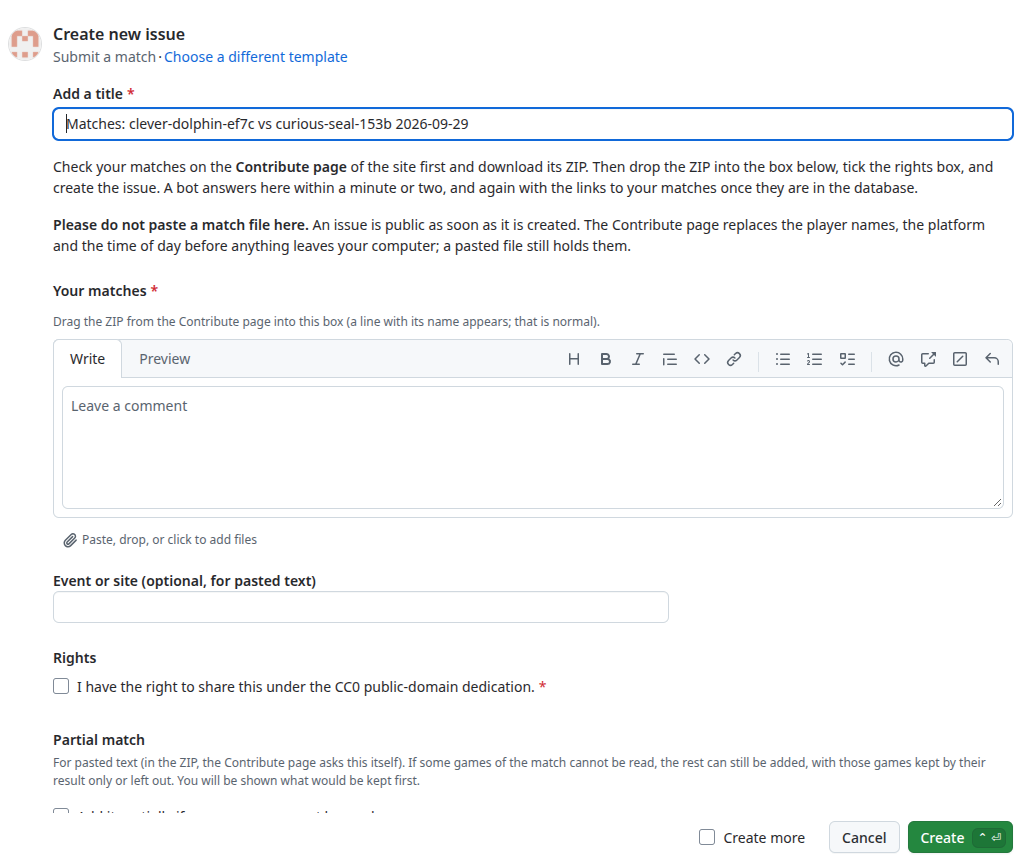
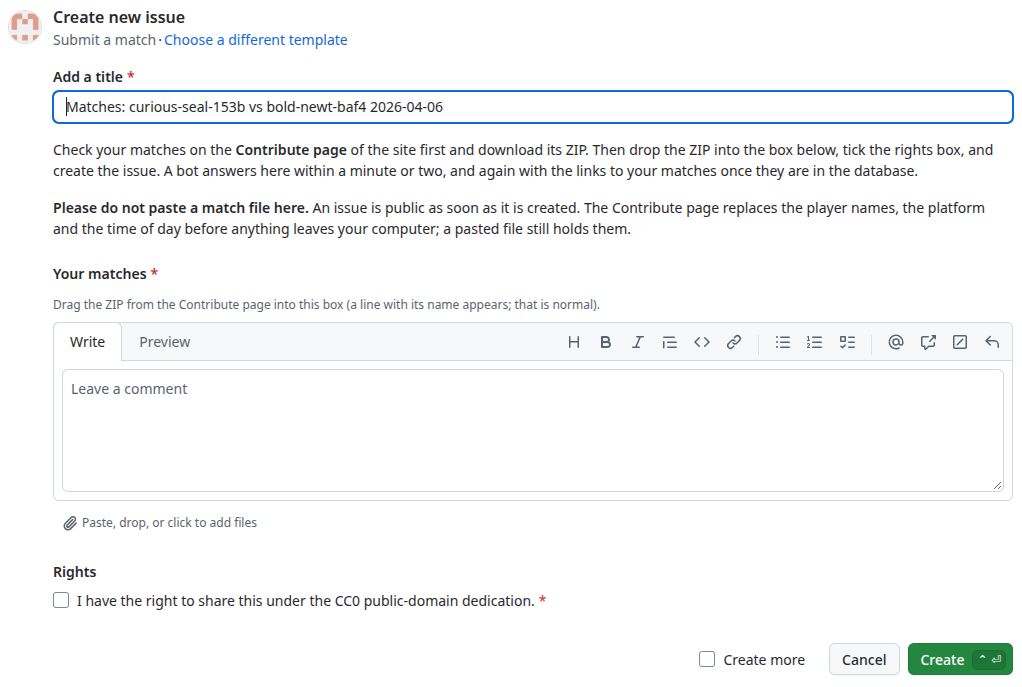
Guide: the pictures of the shorter Submit a match form (form, send)

diff --git a/site/js/steps.js b/site/js/steps.js
@@ -13,11 +13,11 @@ import { el, toDom } from './svg.js';
  */
 export const SHOTS = {
   form: {
-    src: 'img/guide/form.png', w: 1022, h: 861,
+    src: 'img/guide/form.png', w: 1022, h: 687,
     alt: 'The "Submit a match" form on GitHub, empty: a title field that says "Matches", a short explanation, the box "Your matches", the rights box and the green Create button.',
     marks: [
-      { box: [52, 108, 961, 32], text: 'The title is filled in for you.' },
-      { box: [53, 340, 960, 178], get text() { return `Your ZIP goes into this box (step ${stepNo('send')}).`; } },
+      { box: [53, 91, 960, 32], text: 'The title is filled in for you.' },
+      { box: [54, 323, 959, 178], get text() { return `Your ZIP goes into this box (step ${stepNo('send')}).`; } },
     ],
   },
   dropped: {
@@ -26,11 +26,11 @@ export const SHOTS = {
     marks: [{ box: [25, 117, 652, 22], text: 'This line means that the ZIP is uploaded. It looks odd, but it is right: leave it as it is.' }],
   },
   send: {
-    src: 'img/guide/send.png', w: 975, h: 250,
+    src: 'img/guide/send.png', w: 975, h: 125,
     alt: 'The bottom of the form: the rights box ticked and the green Create button.',
     marks: [
-      { box: [6, 26, 494, 22], text: 'Tick the rights box.' },
-      { box: [861, 208, 105, 32], text: 'Press Create.' },
+      { box: [6, 33, 495, 22], text: 'Tick the rights box.' },
+      { box: [861, 87, 105, 31], text: 'Press Create.' },
     ],
   },
   reply: {
